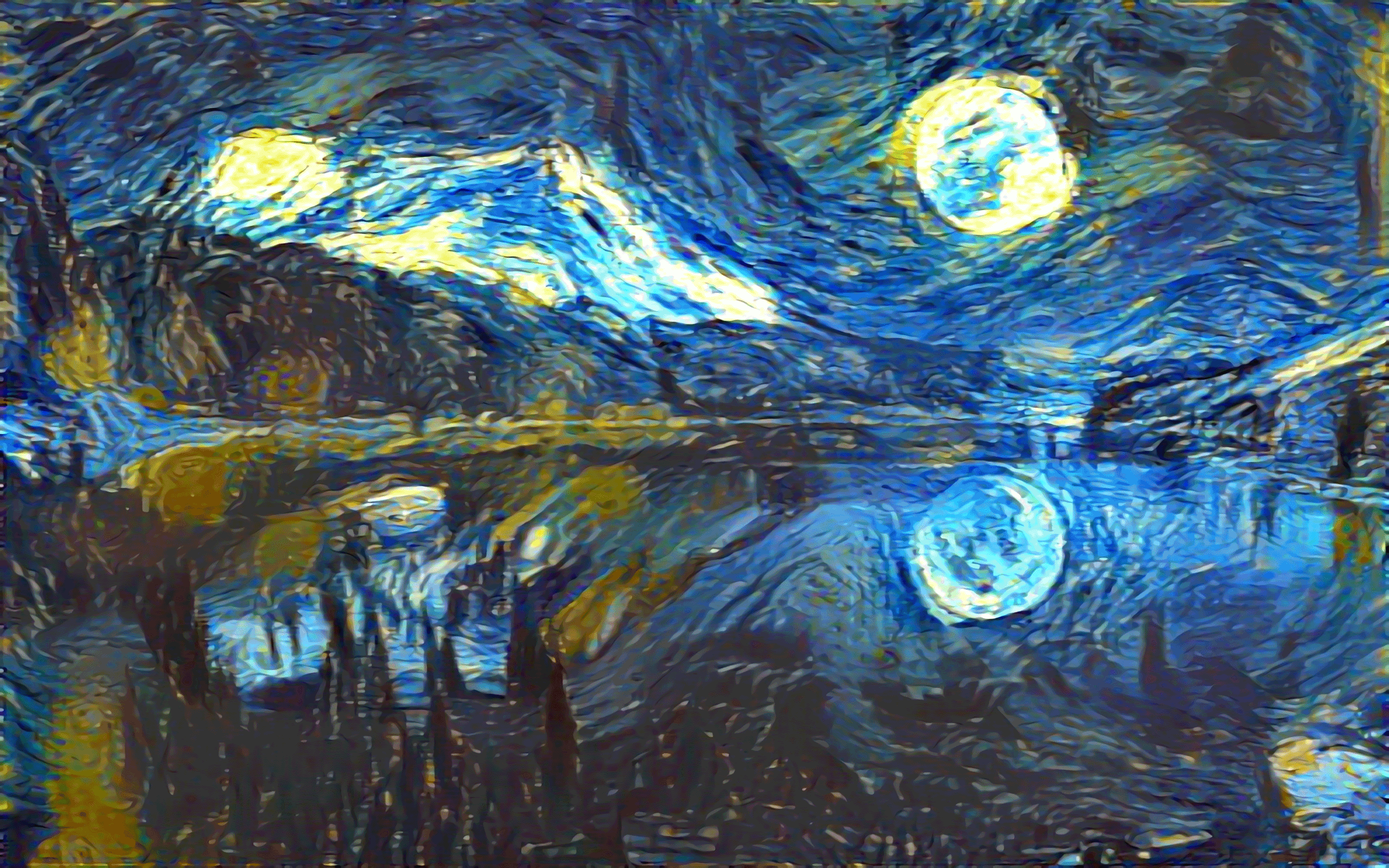
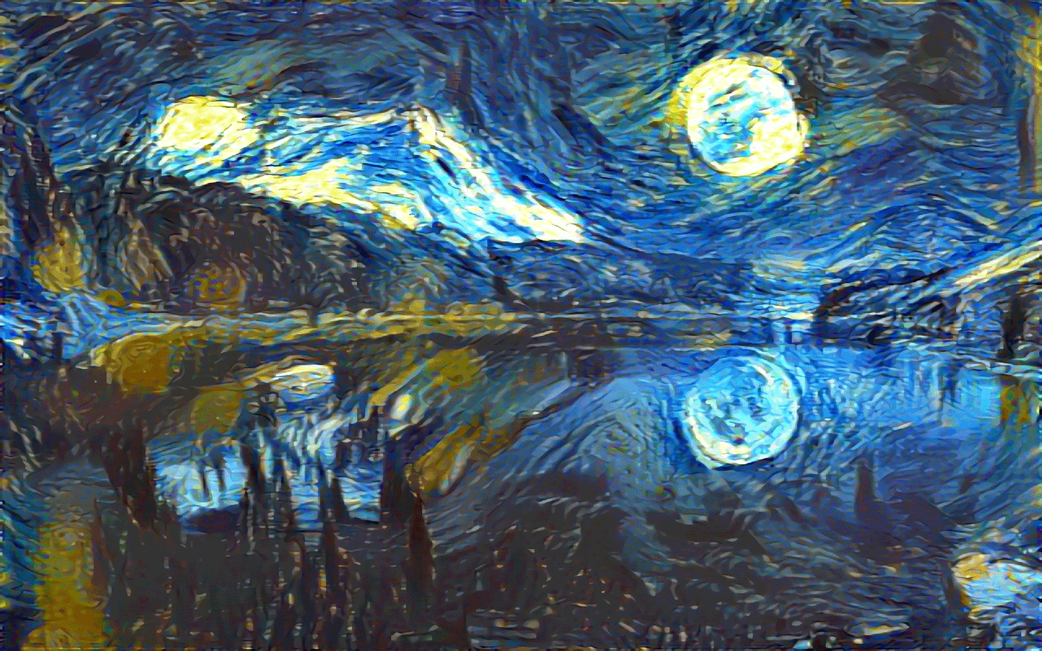
Updated images

diff --git a/index.html b/index.html
@@ -71,7 +71,7 @@
             <div class="container">
                 <div class="row">
                     <div class="col-md-8 col-md-offset-2">
-                      <h1 class="brand-heading">Projects</h1>
+                      <h1 class="brand-heading">Repositories</h1>
                       <p class="intro-text">A collection of Github Repositories in various languages </p>
                         <a href="#general" class="btn btn-circle page-scroll">
                             <i class="fa fa-angle-double-down animated"></i>

diff --git a/css/grayscale.css b/css/grayscale.css
@@ -155,7 +155,7 @@ a:focus {
     padding: 100px 0;
     text-align: center;
     color: #fff;
-    background: url(../img/blue-moon-lake.jpg) no-repeat top center scroll;
+    background: url(../img/Tsukiyomi_MaxPooling_at_iteration_50.png) no-repeat top center scroll;
     background-color: #000;
     -webkit-background-size: cover;
     -moz-background-size: cover;
@@ -210,6 +210,7 @@ a:focus {
 
 .intro .intro-body .brand-heading {
     font-size: 40px;
+	color:rgba(255,255,255,1.0)
 }
 
 .intro .intro-body .intro-text {
